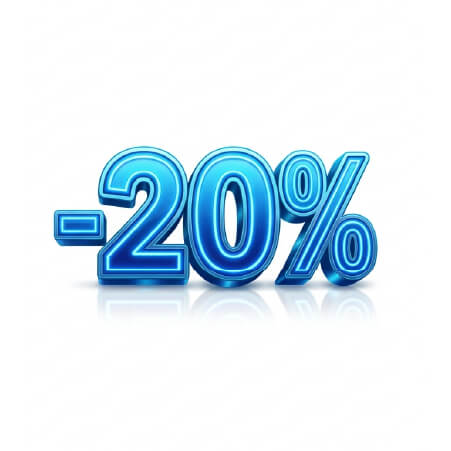
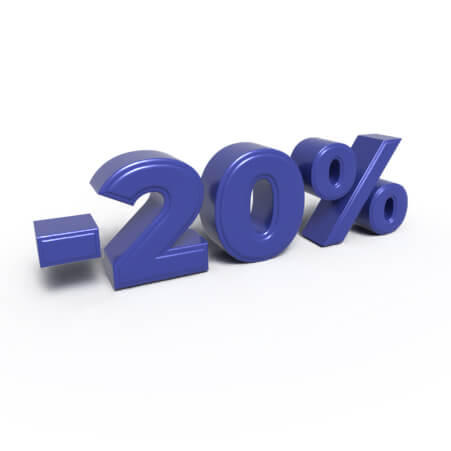
A sombra do rolo encosta-se às bordas, e o caminho do chapéu de sol
O overlay ia até um terço da janela de cada lado, o que escurecia a arte e se
lia como um degradê em vez de um rolo. Passa a ser estreito e encostado: mais
forte exactamente na borda e desaparecido aos 14%. A almofada, que é a foto mais
ampliada, fica limpa.

O ficheiro do chapéu de sol perdeu o Chaepeu do nome, e o caminho apontava para
o antigo — a fita estava a rolar com um buraco nessa posição.

O -20% foi reexportado no azul da marca e mudou de proporção, por isso vai com a
medição refeita. Todas as sete voltaram a ser medidas: nenhuma tem corte que
chegue ao artigo, e nenhuma excede a largura da janela.

Umbral-Chapeleira.jpg fica de fora: é a exportação antiga do mesmo para-sol que
está em Umbral-Para-Sol.jpg, e não é usada.

Changed region(s): [[0.0621, 0.2794, 0.9313, 0.6829]]

diff --git a/carrinha/index.html b/carrinha/index.html
@@ -131,12 +131,19 @@
     position:relative;height:var(--rolo,150px);overflow:hidden;
     border-radius:12px;background:var(--branco);
   }
-  /* Sombra no topo e no fundo, a sugerir que a fita curva para dentro da
-     máquina. Chega a zero antes do meio, para não escurecer a arte. */
+  /* A sombra que sugere a fita a curvar para dentro da máquina. Estreita e
+     encostada às bordas: espalhada até um terço da janela escurecia a arte e
+     lia-se como um degradê em vez de um rolo. Mais forte exactamente na borda,
+     e desaparecida aos 14%. */
   .maquina-janela::after{
     content:"";position:absolute;inset:0;border-radius:12px;pointer-events:none;
-    background:linear-gradient(rgba(28,28,30,.16),rgba(28,28,30,0) 32%,
-                               rgba(28,28,30,0) 68%,rgba(28,28,30,.16));
+    background:linear-gradient(
+      rgba(28,28,30,.30) 0%,
+      rgba(28,28,30,.12) 5%,
+      rgba(28,28,30,0) 14%,
+      rgba(28,28,30,0) 86%,
+      rgba(28,28,30,.12) 95%,
+      rgba(28,28,30,.30) 100%);
   }
   .fita{will-change:transform}
   /* Antes de alguém carregar, a fita passeia: é assim que os prémios se mostram
@@ -396,58 +403,58 @@
       <div class="maquina" id="maquina">
         <div class="maquina-janela" role="img" aria-label="Máquina com 7 prémios: 20% na próxima estadia, Chapéu de palha, Chapéu de sol, Saco de pano, Almofada de praia, Para-sol para o carro, Caneta da Umbral.">
           <div class="fita" id="fita">
-            <div class="maquina-item"><img class="arte" src="img/Umbral-20.jpg" alt="" decoding="async" style="height:191.7%"></div>
+            <div class="maquina-item"><img class="arte" src="img/Umbral-20.jpg" alt="" decoding="async" style="height:189.7%"></div>
             <div class="maquina-item"><img class="arte" src="img/Umbral-Chapeu.jpg" alt="" decoding="async" style="height:132.4%"></div>
-            <div class="maquina-item"><img class="arte" src="img/Umbral-Chaepeu-de-sol.jpg" alt="" decoding="async" style="height:85.2%"></div>
+            <div class="maquina-item"><img class="arte" src="img/Umbral-Chapeu-de-sol.jpg" alt="" decoding="async" style="height:85.2%"></div>
             <div class="maquina-item"><img class="arte" src="img/Umbral-Saco.jpg" alt="" decoding="async" style="height:85.2%"></div>
             <div class="maquina-item"><img class="arte" src="img/Umbral-Almofada.jpg" alt="" decoding="async" style="height:198.4%"></div>
             <div class="maquina-item"><img class="arte" src="img/Umbral-Para-Sol.jpg" alt="" decoding="async" style="height:120.9%"></div>
             <div class="maquina-item"><img class="arte" src="img/Umbral-Caneta.jpg" alt="" decoding="async" style="height:112.3%"></div>
-            <div class="maquina-item"><img class="arte" src="img/Umbral-20.jpg" alt="" decoding="async" style="height:191.7%"></div>
+            <div class="maquina-item"><img class="arte" src="img/Umbral-20.jpg" alt="" decoding="async" style="height:189.7%"></div>
             <div class="maquina-item"><img class="arte" src="img/Umbral-Chapeu.jpg" alt="" decoding="async" style="height:132.4%"></div>
-            <div class="maquina-item"><img class="arte" src="img/Umbral-Chaepeu-de-sol.jpg" alt="" decoding="async" style="height:85.2%"></div>
+            <div class="maquina-item"><img class="arte" src="img/Umbral-Chapeu-de-sol.jpg" alt="" decoding="async" style="height:85.2%"></div>
             <div class="maquina-item"><img class="arte" src="img/Umbral-Saco.jpg" alt="" decoding="async" style="height:85.2%"></div>
             <div class="maquina-item"><img class="arte" src="img/Umbral-Almofada.jpg" alt="" decoding="async" style="height:198.4%"></div>
             <div class="maquina-item"><img class="arte" src="img/Umbral-Para-Sol.jpg" alt="" decoding="async" style="height:120.9%"></div>
             <div class="maquina-item"><img class="arte" src="img/Umbral-Caneta.jpg" alt="" decoding="async" style="height:112.3%"></div>
-            <div class="maquina-item"><img class="arte" src="img/Umbral-20.jpg" alt="" decoding="async" style="height:191.7%"></div>
+            <div class="maquina-item"><img class="arte" src="img/Umbral-20.jpg" alt="" decoding="async" style="height:189.7%"></div>
             <div class="maquina-item"><img class="arte" src="img/Umbral-Chapeu.jpg" alt="" decoding="async" style="height:132.4%"></div>
-            <div class="maquina-item"><img class="arte" src="img/Umbral-Chaepeu-de-sol.jpg" alt="" decoding="async" style="height:85.2%"></div>
+            <div class="maquina-item"><img class="arte" src="img/Umbral-Chapeu-de-sol.jpg" alt="" decoding="async" style="height:85.2%"></div>
             <div class="maquina-item"><img class="arte" src="img/Umbral-Saco.jpg" alt="" decoding="async" style="height:85.2%"></div>
             <div class="maquina-item"><img class="arte" src="img/Umbral-Almofada.jpg" alt="" decoding="async" style="height:198.4%"></div>
             <div class="maquina-item"><img class="arte" src="img/Umbral-Para-Sol.jpg" alt="" decoding="async" style="height:120.9%"></div>
             <div class="maquina-item"><img class="arte" src="img/Umbral-Caneta.jpg" alt="" decoding="async" style="height:112.3%"></div>
-            <div class="maquina-item"><img class="arte" src="img/Umbral-20.jpg" alt="" decoding="async" style="height:191.7%"></div>
+            <div class="maquina-item"><img class="arte" src="img/Umbral-20.jpg" alt="" decoding="async" style="height:189.7%"></div>
             <div class="maquina-item"><img class="arte" src="img/Umbral-Chapeu.jpg" alt="" decoding="async" style="height:132.4%"></div>
-            <div class="maquina-item"><img class="arte" src="img/Umbral-Chaepeu-de-sol.jpg" alt="" decoding="async" style="height:85.2%"></div>
+            <div class="maquina-item"><img class="arte" src="img/Umbral-Chapeu-de-sol.jpg" alt="" decoding="async" style="height:85.2%"></div>
             <div class="maquina-item"><img class="arte" src="img/Umbral-Saco.jpg" alt="" decoding="async" style="height:85.2%"></div>
             <div class="maquina-item"><img class="arte" src="img/Umbral-Almofada.jpg" alt="" decoding="async" style="height:198.4%"></div>
             <div class="maquina-item"><img class="arte" src="img/Umbral-Para-Sol.jpg" alt="" decoding="async" style="height:120.9%"></div>
             <div class="maquina-item"><img class="arte" src="img/Umbral-Caneta.jpg" alt="" decoding="async" style="height:112.3%"></div>
-            <div class="maquina-item"><img class="arte" src="img/Umbral-20.jpg" alt="" decoding="async" style="height:191.7%"></div>
+            <div class="maquina-item"><img class="arte" src="img/Umbral-20.jpg" alt="" decoding="async" style="height:189.7%"></div>
             <div class="maquina-item"><img class="arte" src="img/Umbral-Chapeu.jpg" alt="" decoding="async" style="height:132.4%"></div>
-            <div class="maquina-item"><img class="arte" src="img/Umbral-Chaepeu-de-sol.jpg" alt="" decoding="async" style="height:85.2%"></div>
+            <div class="maquina-item"><img class="arte" src="img/Umbral-Chapeu-de-sol.jpg" alt="" decoding="async" style="height:85.2%"></div>
             <div class="maquina-item"><img class="arte" src="img/Umbral-Saco.jpg" alt="" decoding="async" style="height:85.2%"></div>
             <div class="maquina-item"><img class="arte" src="img/Umbral-Almofada.jpg" alt="" decoding="async" style="height:198.4%"></div>
             <div class="maquina-item"><img class="arte" src="img/Umbral-Para-Sol.jpg" alt="" decoding="async" style="height:120.9%"></div>
             <div class="maquina-item"><img class="arte" src="img/Umbral-Caneta.jpg" alt="" decoding="async" style="height:112.3%"></div>
-            <div class="maquina-item"><img class="arte" src="img/Umbral-20.jpg" alt="" decoding="async" style="height:191.7%"></div>
+            <div class="maquina-item"><img class="arte" src="img/Umbral-20.jpg" alt="" decoding="async" style="height:189.7%"></div>
             <div class="maquina-item"><img class="arte" src="img/Umbral-Chapeu.jpg" alt="" decoding="async" style="height:132.4%"></div>
-            <div class="maquina-item"><img class="arte" src="img/Umbral-Chaepeu-de-sol.jpg" alt="" decoding="async" style="height:85.2%"></div>
+            <div class="maquina-item"><img class="arte" src="img/Umbral-Chapeu-de-sol.jpg" alt="" decoding="async" style="height:85.2%"></div>
             <div class="maquina-item"><img class="arte" src="img/Umbral-Saco.jpg" alt="" decoding="async" style="height:85.2%"></div>
             <div class="maquina-item"><img class="arte" src="img/Umbral-Almofada.jpg" alt="" decoding="async" style="height:198.4%"></div>
             <div class="maquina-item"><img class="arte" src="img/Umbral-Para-Sol.jpg" alt="" decoding="async" style="height:120.9%"></div>
             <div class="maquina-item"><img class="arte" src="img/Umbral-Caneta.jpg" alt="" decoding="async" style="height:112.3%"></div>
-            <div class="maquina-item"><img class="arte" src="img/Umbral-20.jpg" alt="" decoding="async" style="height:191.7%"></div>
+            <div class="maquina-item"><img class="arte" src="img/Umbral-20.jpg" alt="" decoding="async" style="height:189.7%"></div>
             <div class="maquina-item"><img class="arte" src="img/Umbral-Chapeu.jpg" alt="" decoding="async" style="height:132.4%"></div>
-            <div class="maquina-item"><img class="arte" src="img/Umbral-Chaepeu-de-sol.jpg" alt="" decoding="async" style="height:85.2%"></div>
+            <div class="maquina-item"><img class="arte" src="img/Umbral-Chapeu-de-sol.jpg" alt="" decoding="async" style="height:85.2%"></div>
             <div class="maquina-item"><img class="arte" src="img/Umbral-Saco.jpg" alt="" decoding="async" style="height:85.2%"></div>
             <div class="maquina-item"><img class="arte" src="img/Umbral-Almofada.jpg" alt="" decoding="async" style="height:198.4%"></div>
             <div class="maquina-item"><img class="arte" src="img/Umbral-Para-Sol.jpg" alt="" decoding="async" style="height:120.9%"></div>
             <div class="maquina-item"><img class="arte" src="img/Umbral-Caneta.jpg" alt="" decoding="async" style="height:112.3%"></div>
-            <div class="maquina-item"><img class="arte" src="img/Umbral-20.jpg" alt="" decoding="async" style="height:191.7%"></div>
+            <div class="maquina-item"><img class="arte" src="img/Umbral-20.jpg" alt="" decoding="async" style="height:189.7%"></div>
             <div class="maquina-item"><img class="arte" src="img/Umbral-Chapeu.jpg" alt="" decoding="async" style="height:132.4%"></div>
-            <div class="maquina-item"><img class="arte" src="img/Umbral-Chaepeu-de-sol.jpg" alt="" decoding="async" style="height:85.2%"></div>
+            <div class="maquina-item"><img class="arte" src="img/Umbral-Chapeu-de-sol.jpg" alt="" decoding="async" style="height:85.2%"></div>
             <div class="maquina-item"><img class="arte" src="img/Umbral-Saco.jpg" alt="" decoding="async" style="height:85.2%"></div>
             <div class="maquina-item"><img class="arte" src="img/Umbral-Almofada.jpg" alt="" decoding="async" style="height:198.4%"></div>
             <div class="maquina-item"><img class="arte" src="img/Umbral-Para-Sol.jpg" alt="" decoding="async" style="height:120.9%"></div>

diff --git a/README.md b/README.md
@@ -125,8 +125,7 @@ quantas pessoas, em que datas.
 Falta também o endereço do QR do saco, para entrar no mapa `CANAIS` e as
 inscrições desse meio se distinguirem das do avião.
 
-O render do `-20%` é um azul brilhante que não é o azul da marca (`#2A3176`).
-Fica como foi entregue, mas destoa das outras seis fotos e do resto da app.
+Nada por fazer do lado da arte: as sete fotos estão em `carrinha/img/` e medidas.
 
 ## Acessibilidade
 
